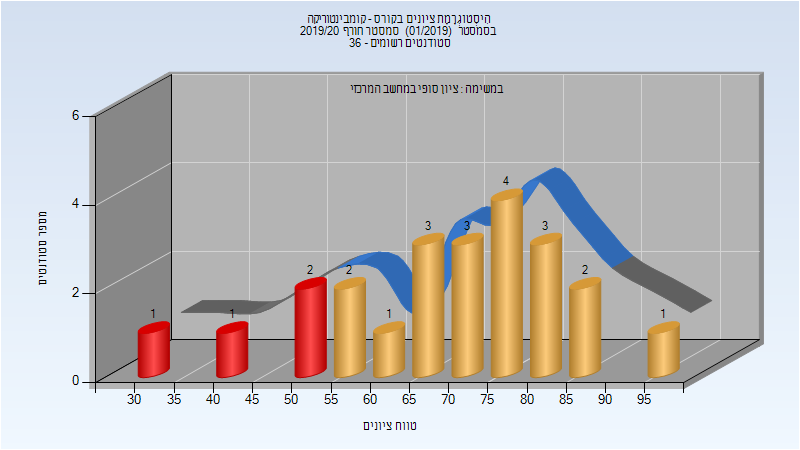
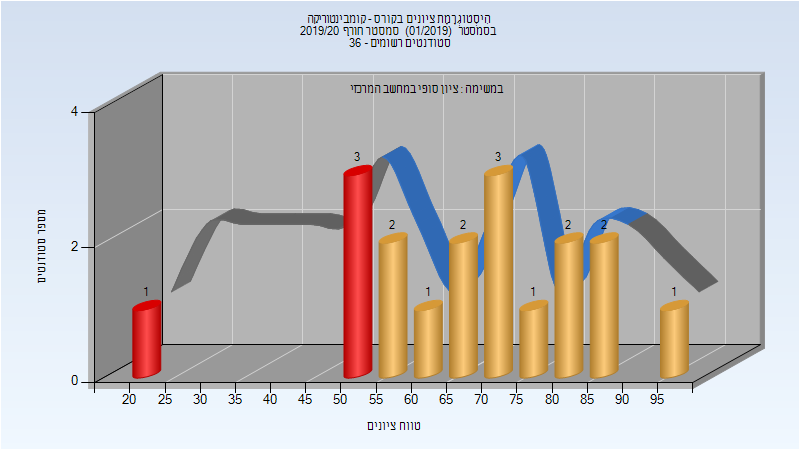
Deploy michael-maltsev/technion-histograms to github.com/michael-maltsev/technion-histograms.git:gh-pages

diff --git a/104286/index.html b/104286/index.html
@@ -1037,13 +1037,13 @@
 </thead>
 <tbody>
 <tr>
-<td>23</td>
-<td>19/4</td>
-<td>83</td>
-<td>33</td>
+<td>26</td>
+<td>22/4</td>
+<td>85</td>
+<td>20</td>
 <td>95</td>
-<td>69.391</td>
-<td>71</td>
+<td>67.222</td>
+<td>70</td>
 </tr>
 </tbody>
 </table>

diff --git a/104286/README.md b/104286/README.md
@@ -328,7 +328,7 @@
 
 | סטודנטים | עברו/נכשלו | אחוז עוברים | ציון מינימלי | ציון מקסימלי | ממוצע | חציון |
 | ---- | ---- | ---- | ---- | ---- | ---- | ---- |
-| 23 | 19/4 | 83 | 33 | 95 | 69.391 | 71 |
+| 26 | 22/4 | 85 | 20 | 95 | 67.222 | 70 |
 
 ## אביב 2020
 
